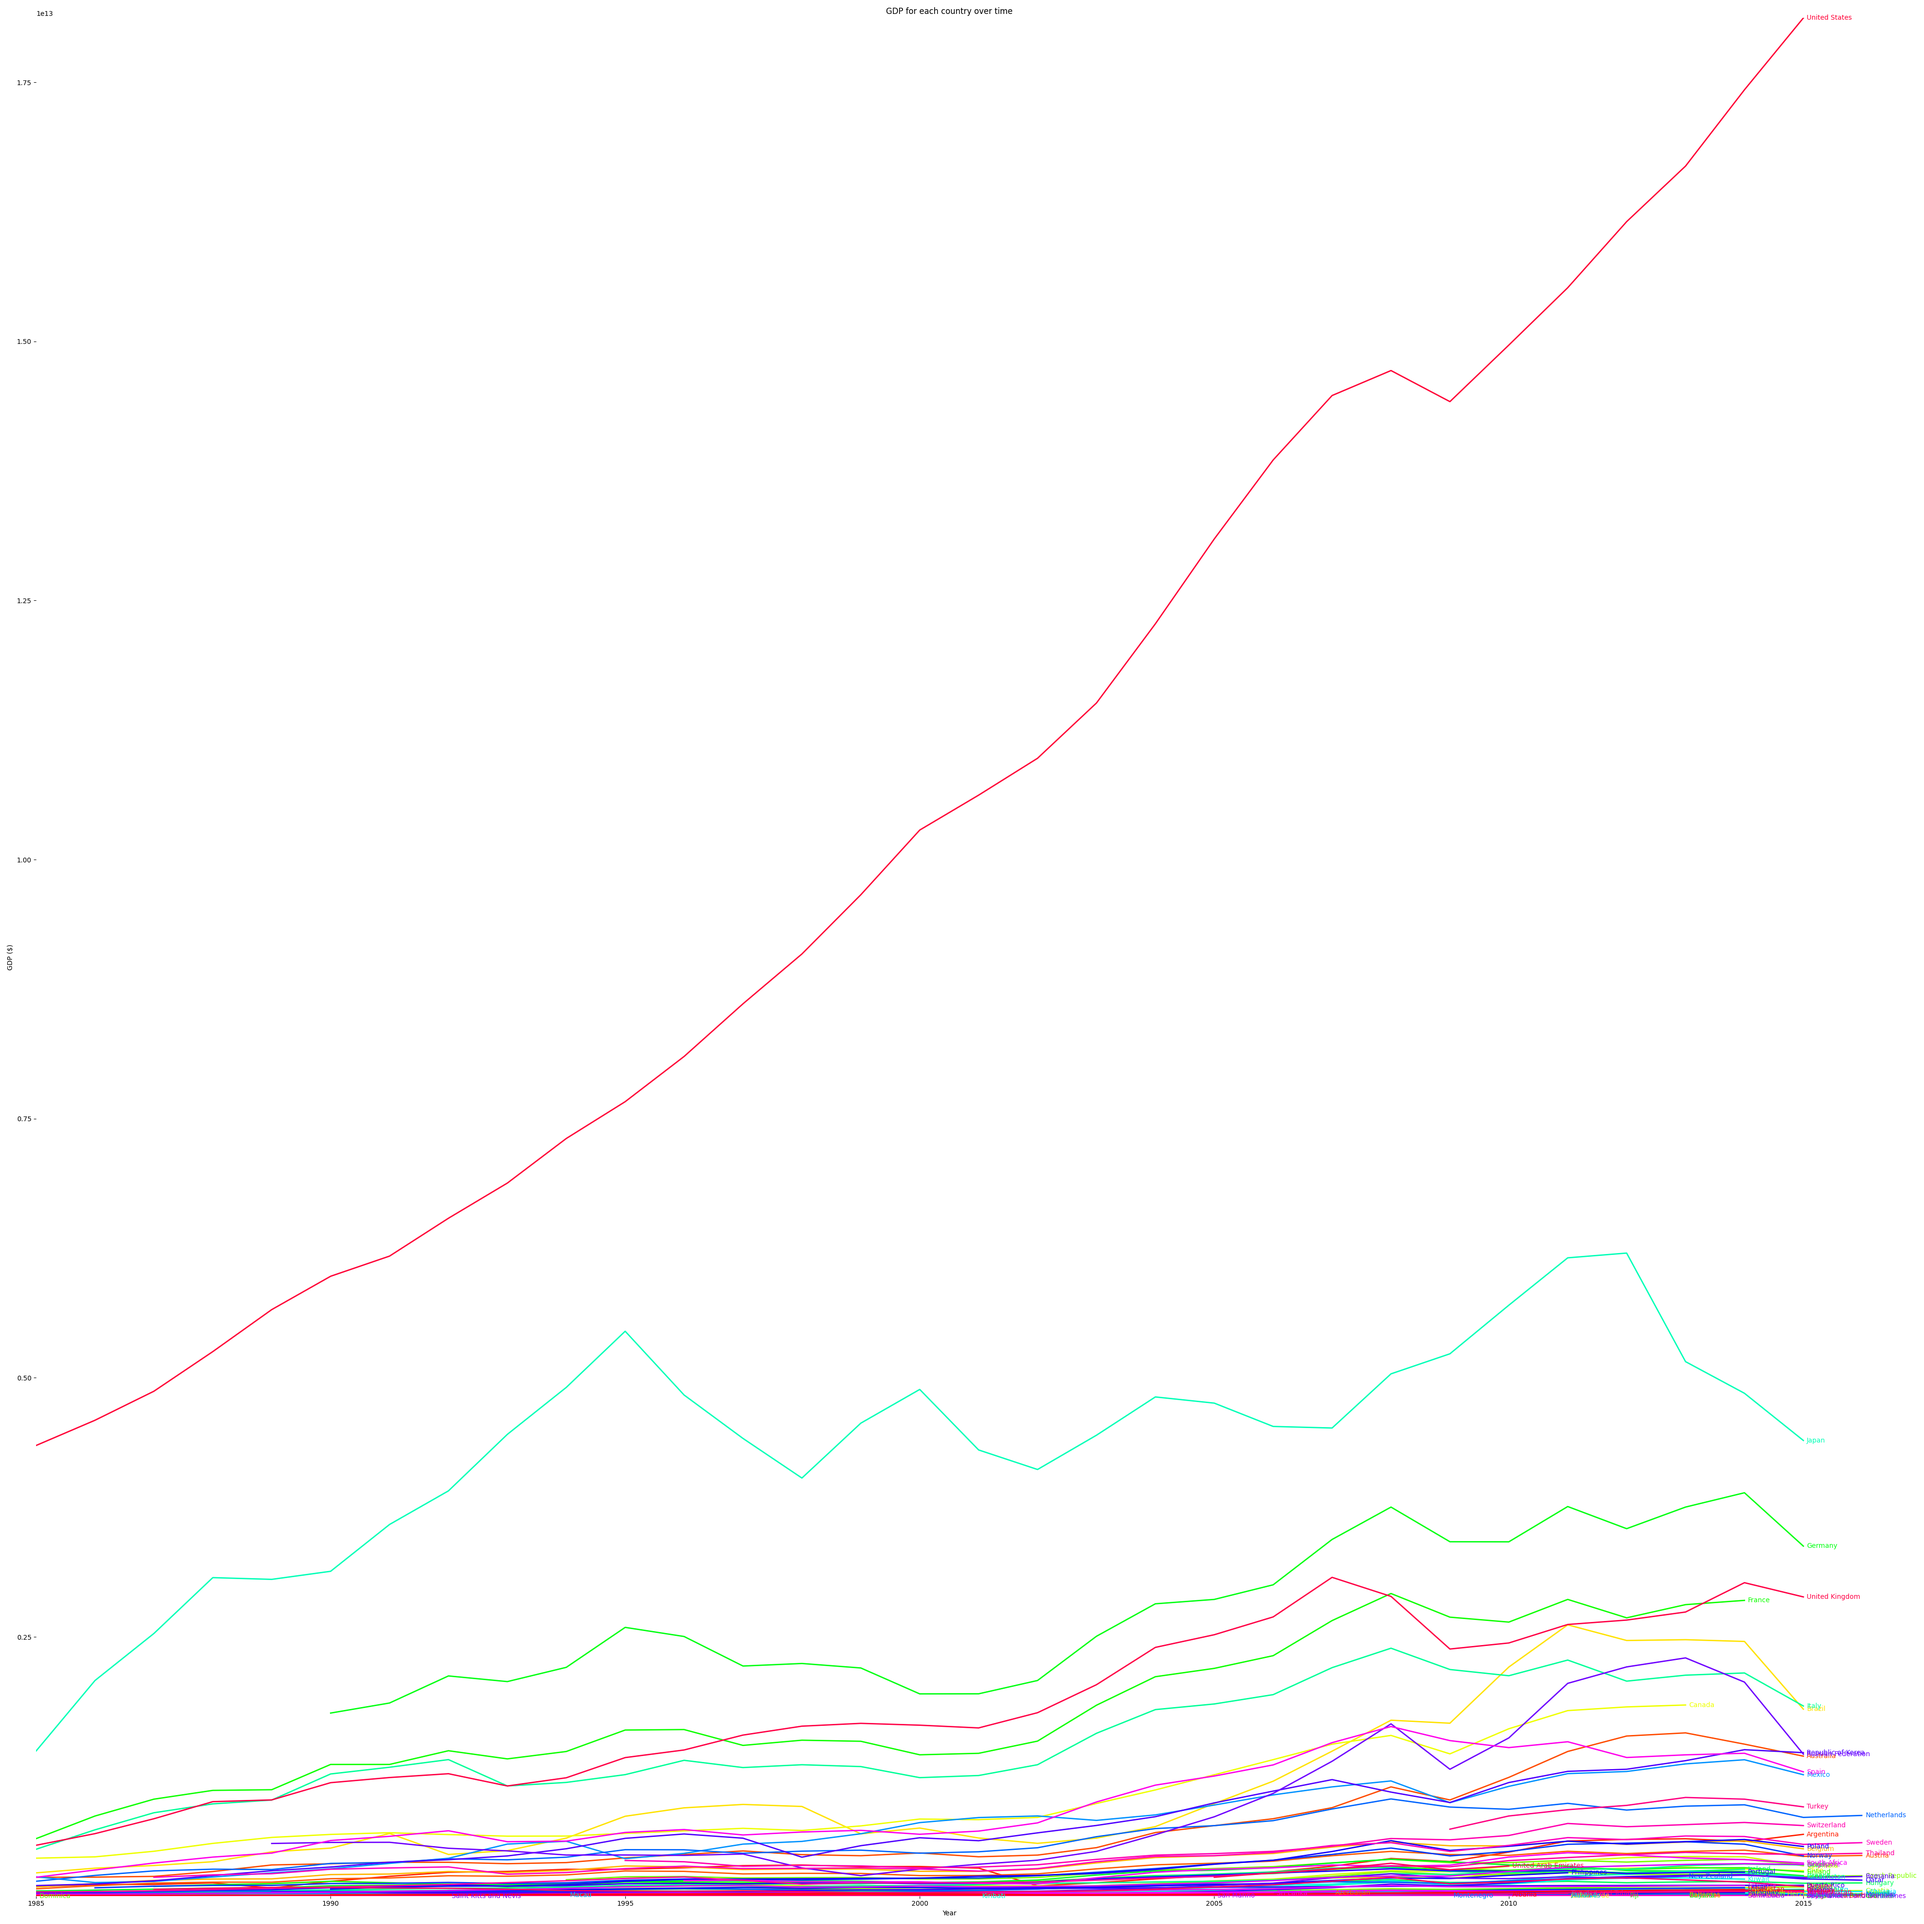
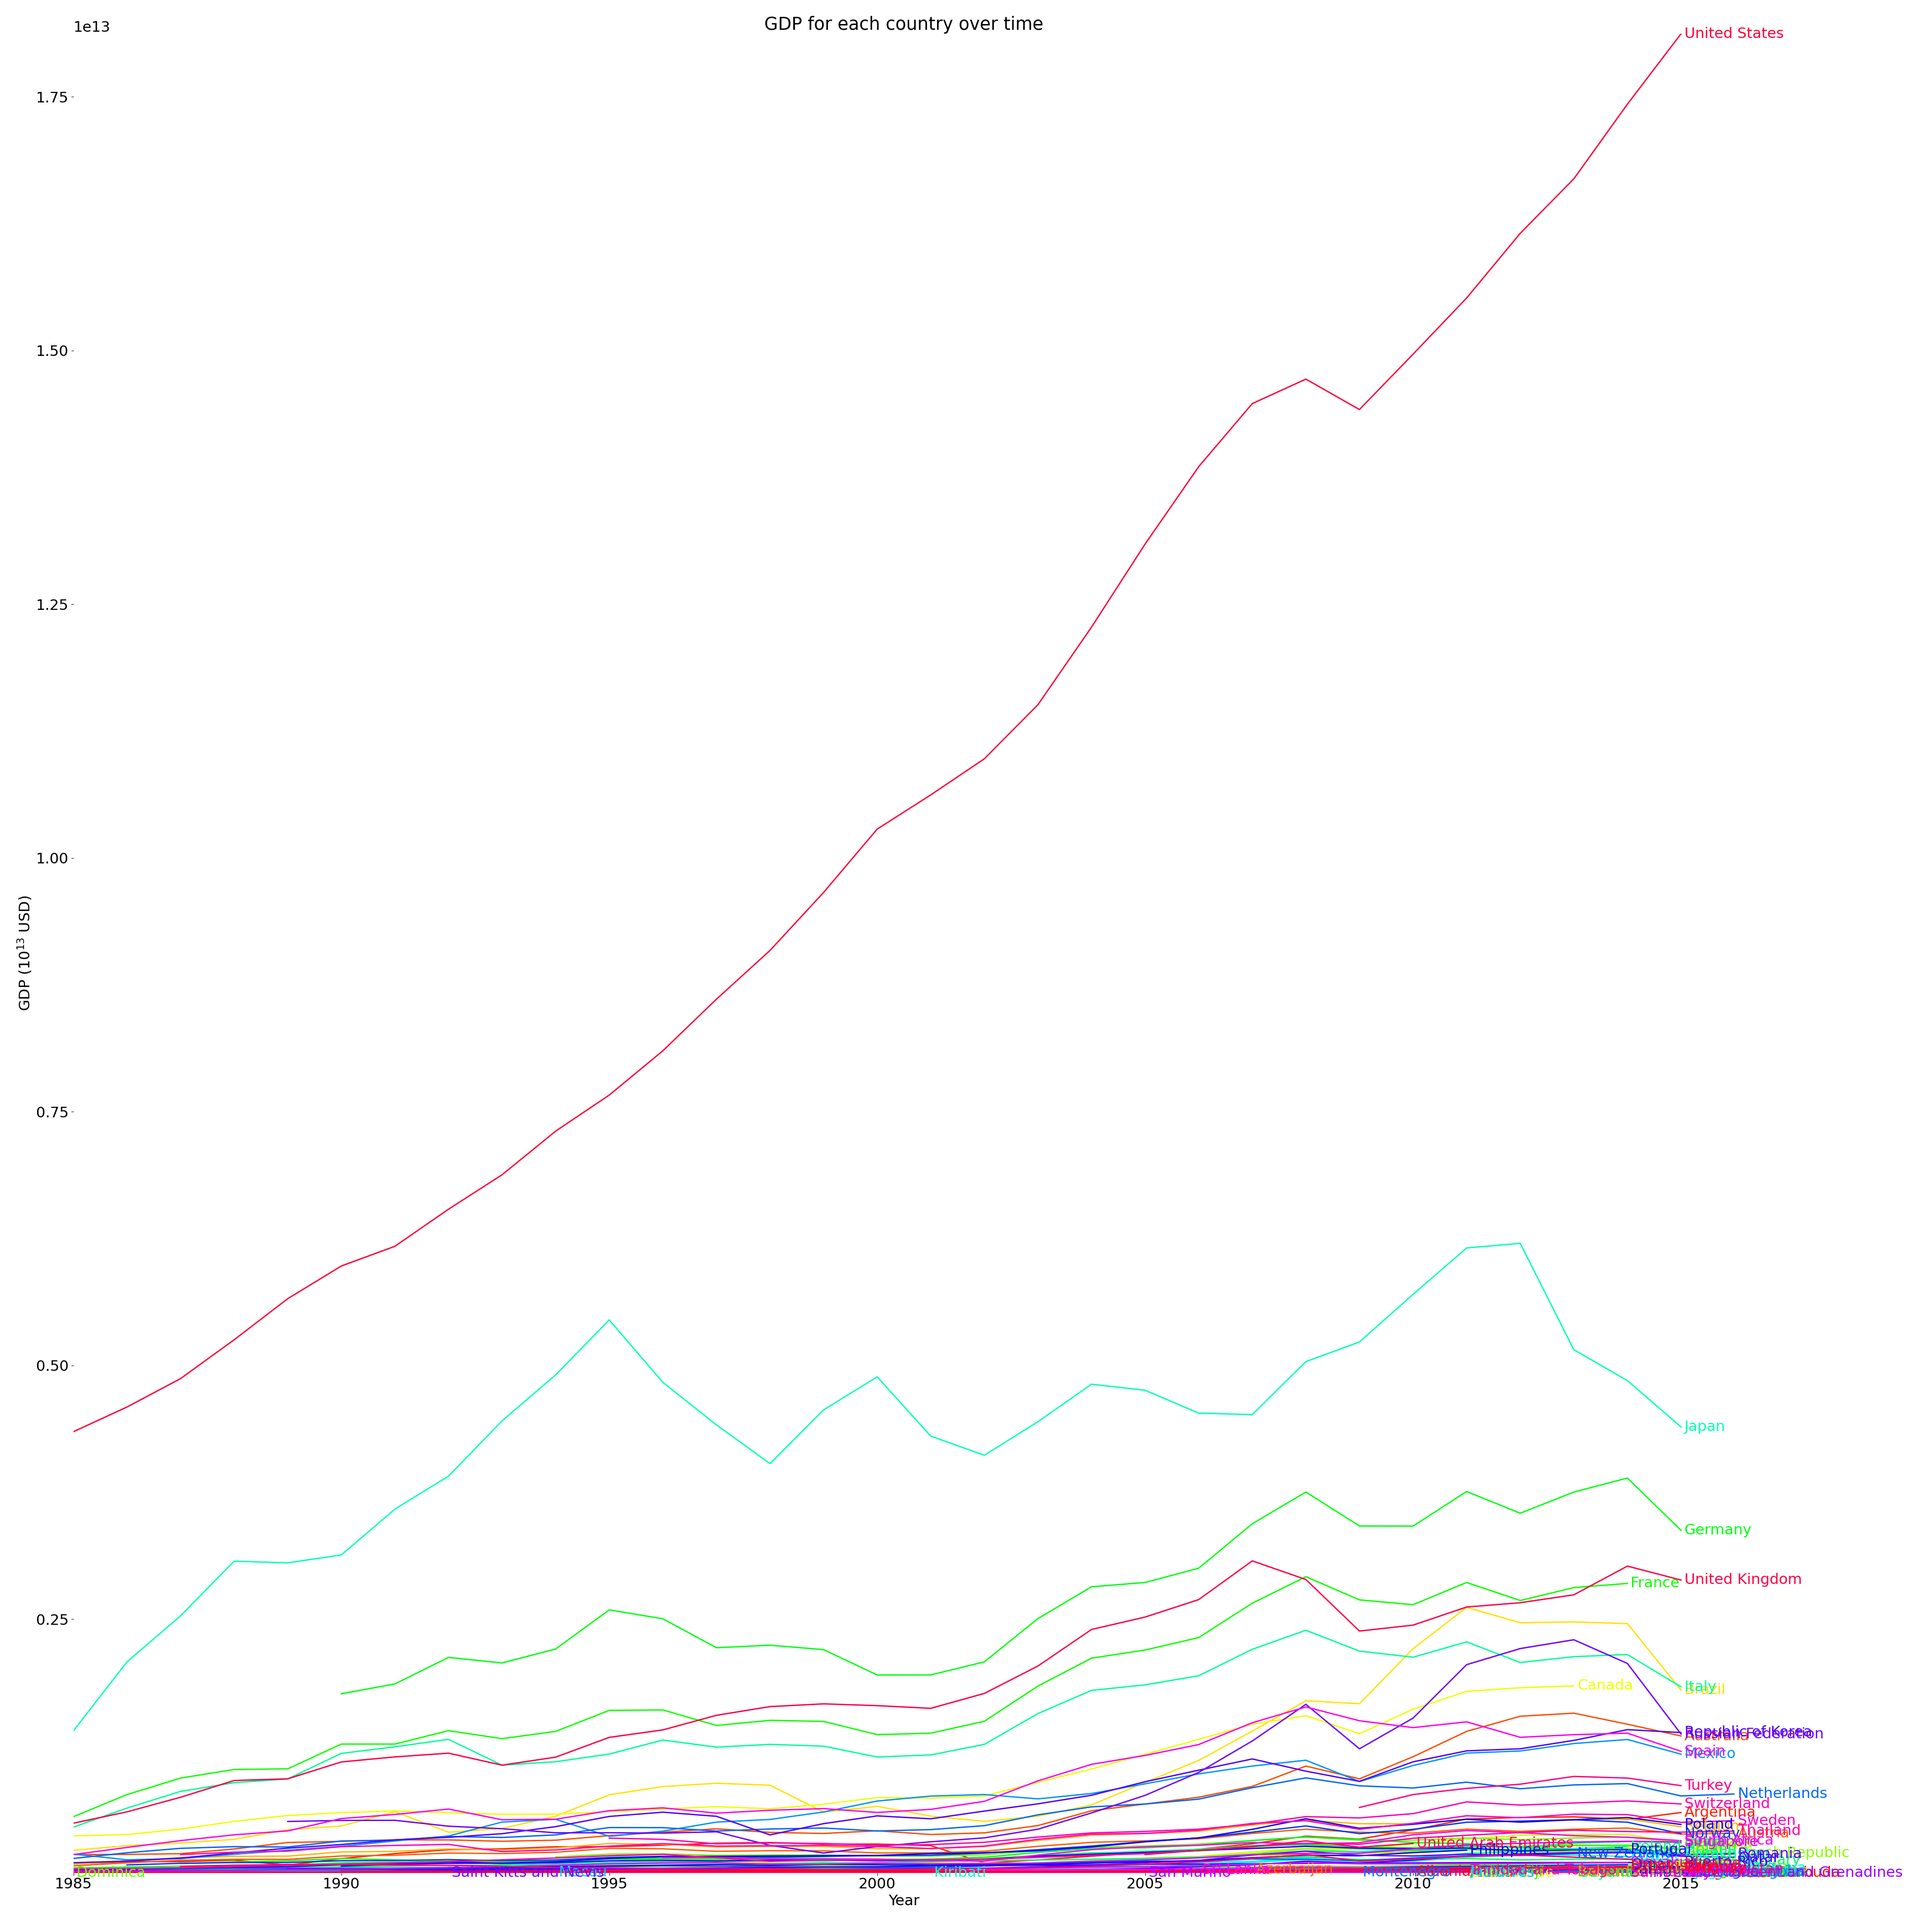
Trimmed GDP visualization

Changed region(s): [[0.0, 0.8125, 1.0, 1.0], [0.6562, 0.8125, 0.7188, 0.8438], [0.4688, 0.0, 0.5, 0.0312]]

diff --git a/suicides.py b/suicides.py
@@ -10,30 +10,32 @@ import scipy as scp
 import pandas as pd
 import matplotlib.pyplot as plt
 import seaborn as sns
-import labellines
+import warnings
+
+warnings.filterwarnings("ignore")
 
 # Reading dataset
 train_file_path = "./input/master.csv"
 dataset_df = pd.read_csv(train_file_path)
-print("Loading dataset CSV...")
-print("Full dataset shape is {}\n".format(dataset_df.shape))
-print("Here's the first few rows:\n")
-print(dataset_df.head(3))
-print()
+# print("Loading dataset CSV...")
+# print("Full dataset shape is {}\n".format(dataset_df.shape))
+# print("Here's the first few rows:\n")
+# print(dataset_df.head(3))
+# print()
 
 unique_countries = len(dataset_df["country"].unique())
 unique_ages = len(dataset_df["age"].unique())
 first_year = min(dataset_df["year"])
 last_year = max(dataset_df["year"])
-print("There are {} countries listed, with {} different age categories.\n".format(unique_countries, unique_ages))
-print("The data set covers the years {} to {}.\n".format(first_year, last_year))
+# print("There are {} countries listed, with {} different age categories.\n".format(unique_countries, unique_ages))
+# print("The data set covers the years {} to {}.\n".format(first_year, last_year))
 
 # Cleaning up data:
 dataset_df = dataset_df.rename(columns={'suicides/100k pop': 'suicides/100k',
                                         'HDI for year': 'HDI_for_year',
                                         ' gdp_for_year ($) ': 'gdp_for_year', 
                                         'gdp_per_capita ($)': 'gdp_per_capita'})
-print("The column headings are: {}".format(dataset_df.columns))
+# print("The column headings are: {}".format(dataset_df.columns))
 
 dataset_df['gdp_for_year'] = dataset_df['gdp_for_year'].replace(',','', regex=True)
 dataset_df['gdp_for_year'] = pd.to_numeric(dataset_df['gdp_for_year'])
@@ -48,6 +50,7 @@ plt.ylabel("Country")
 plt.xlabel("Amount of data points")
 plt.tight_layout()
 plt.savefig("./output/data_by_country.png")
+print("Data by country plot complete.")
 
 # Now GDP by country
 
@@ -87,7 +90,8 @@ def improve_legend(ax=None):
     ax.legend().set_visible(False)
 
 country_gdp_years = dataset_df[["country", "year", "gdp_for_year"]].drop_duplicates()
-print(country_gdp_years)
+# print(country_gdp_years)
+plt.rcParams.update({'font.size': 22})
 plt.figure(figsize=(40,40))
 plt.ylim([min(country_gdp_years['gdp_for_year']), max(country_gdp_years['gdp_for_year'])])
 plt.xlim([min(country_gdp_years['year']), max(country_gdp_years['year'])])
@@ -99,7 +103,32 @@ for i, country in enumerate(country_gdp_years['country'].drop_duplicates()):
 plt.legend()
 improve_legend()
 plt.xlabel("Year")
-plt.ylabel("GDP ($)")
+plt.ylabel("GDP ($10^{13}$ USD)")
 plt.title("GDP for each country over time")
 plt.tight_layout()
 plt.savefig("./output/GDP_by_country.png")
+print("GDP by country plot complete.")
+
+#Redo of the above, but remove the top few countries to see the bottom end more clearly.
+trimmed_country_gdp_years = country_gdp_years[(country_gdp_years['country'] != 'United States') & 
+                                              (country_gdp_years['country'] != 'France') &
+                                              (country_gdp_years['country'] != 'United Kingdom') &
+                                              (country_gdp_years['country'] != 'Germany') &
+                                              (country_gdp_years['country'] != 'Japan')]
+# print("Is USA present in trimmed GDP data?: --> {}".format('United States' in trimmed_country_gdp_years['country']))
+
+plt.figure(figsize=(40,40))
+plt.ylim([min(trimmed_country_gdp_years['gdp_for_year']), max(trimmed_country_gdp_years['gdp_for_year'])])
+plt.xlim([min(trimmed_country_gdp_years['year']), max(trimmed_country_gdp_years['year'])])
+colormap = get_cmap(len(trimmed_country_gdp_years['country'].drop_duplicates()))
+for i, country in enumerate(trimmed_country_gdp_years['country'].drop_duplicates()):
+    trimmed_select_country_data = trimmed_country_gdp_years[trimmed_country_gdp_years['country'] == country]
+    plt.plot(trimmed_select_country_data['year'], trimmed_select_country_data['gdp_for_year'], label=str(country), c=colormap(i), linewidth=2)
+plt.legend()
+improve_legend()
+plt.xlabel("Year")
+plt.ylabel("GDP ($10^{12}$ USD)")
+plt.title("GDP for trimmed list of countries over time")
+plt.tight_layout()
+plt.savefig("./output/GDP_by_country_trimmed.png")
+print("Trimmed GDP by country plot complete.")
